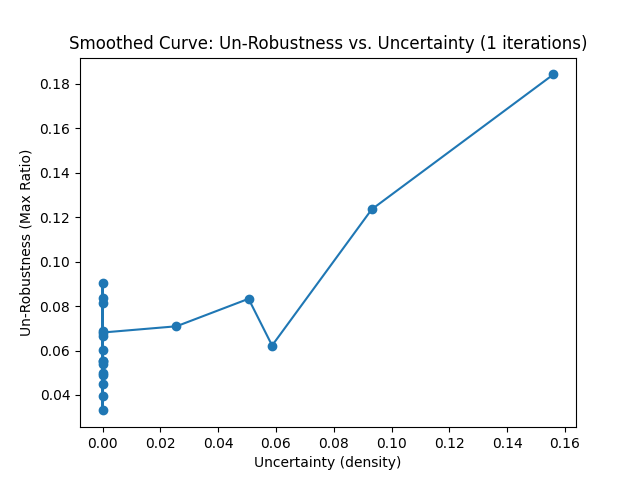
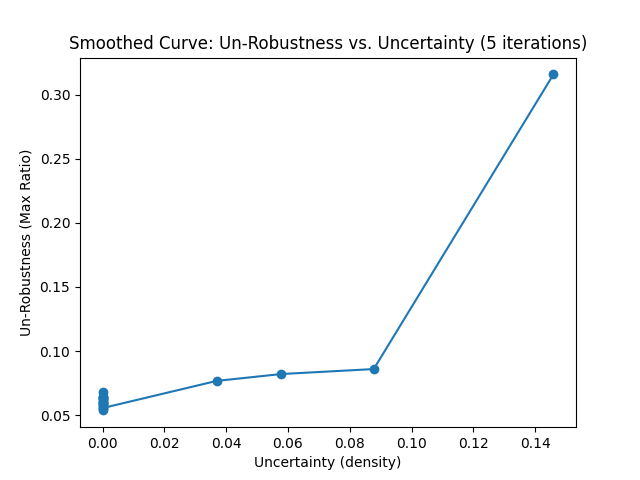
other exps

diff --git a/experiments.py b/experiments.py
@@ -123,10 +123,10 @@ def robustness_test(uncertainty):
     X, y = load_breast_cancer(return_X_y=True)
     X = preprocessing.StandardScaler().fit_transform(X)
     
-    n_iterations = 1    # Number of iterations (increase for final experiments)
+    n_iterations = 5    # Number of iterations (increase for final experiments)
     n_neighbors = 30     # Number of neighbors to generate per test instance
     epsilon = sqrt(pow(0.1,2) * X.shape[1])        # Radius for generating neighbors
-    
+     
     # Run iterations in parallel using all available CPU cores
     start_time = time.time()
     results = Parallel(n_jobs=-1)(

diff --git a/main.py b/main.py
@@ -2,5 +2,5 @@ import experiments as exp
 
 if __name__ == "__main__":
     # exp.training_test()
-    exp.robustness_test("entropy")
+    exp.robustness_test("density")
     print("Done!")
